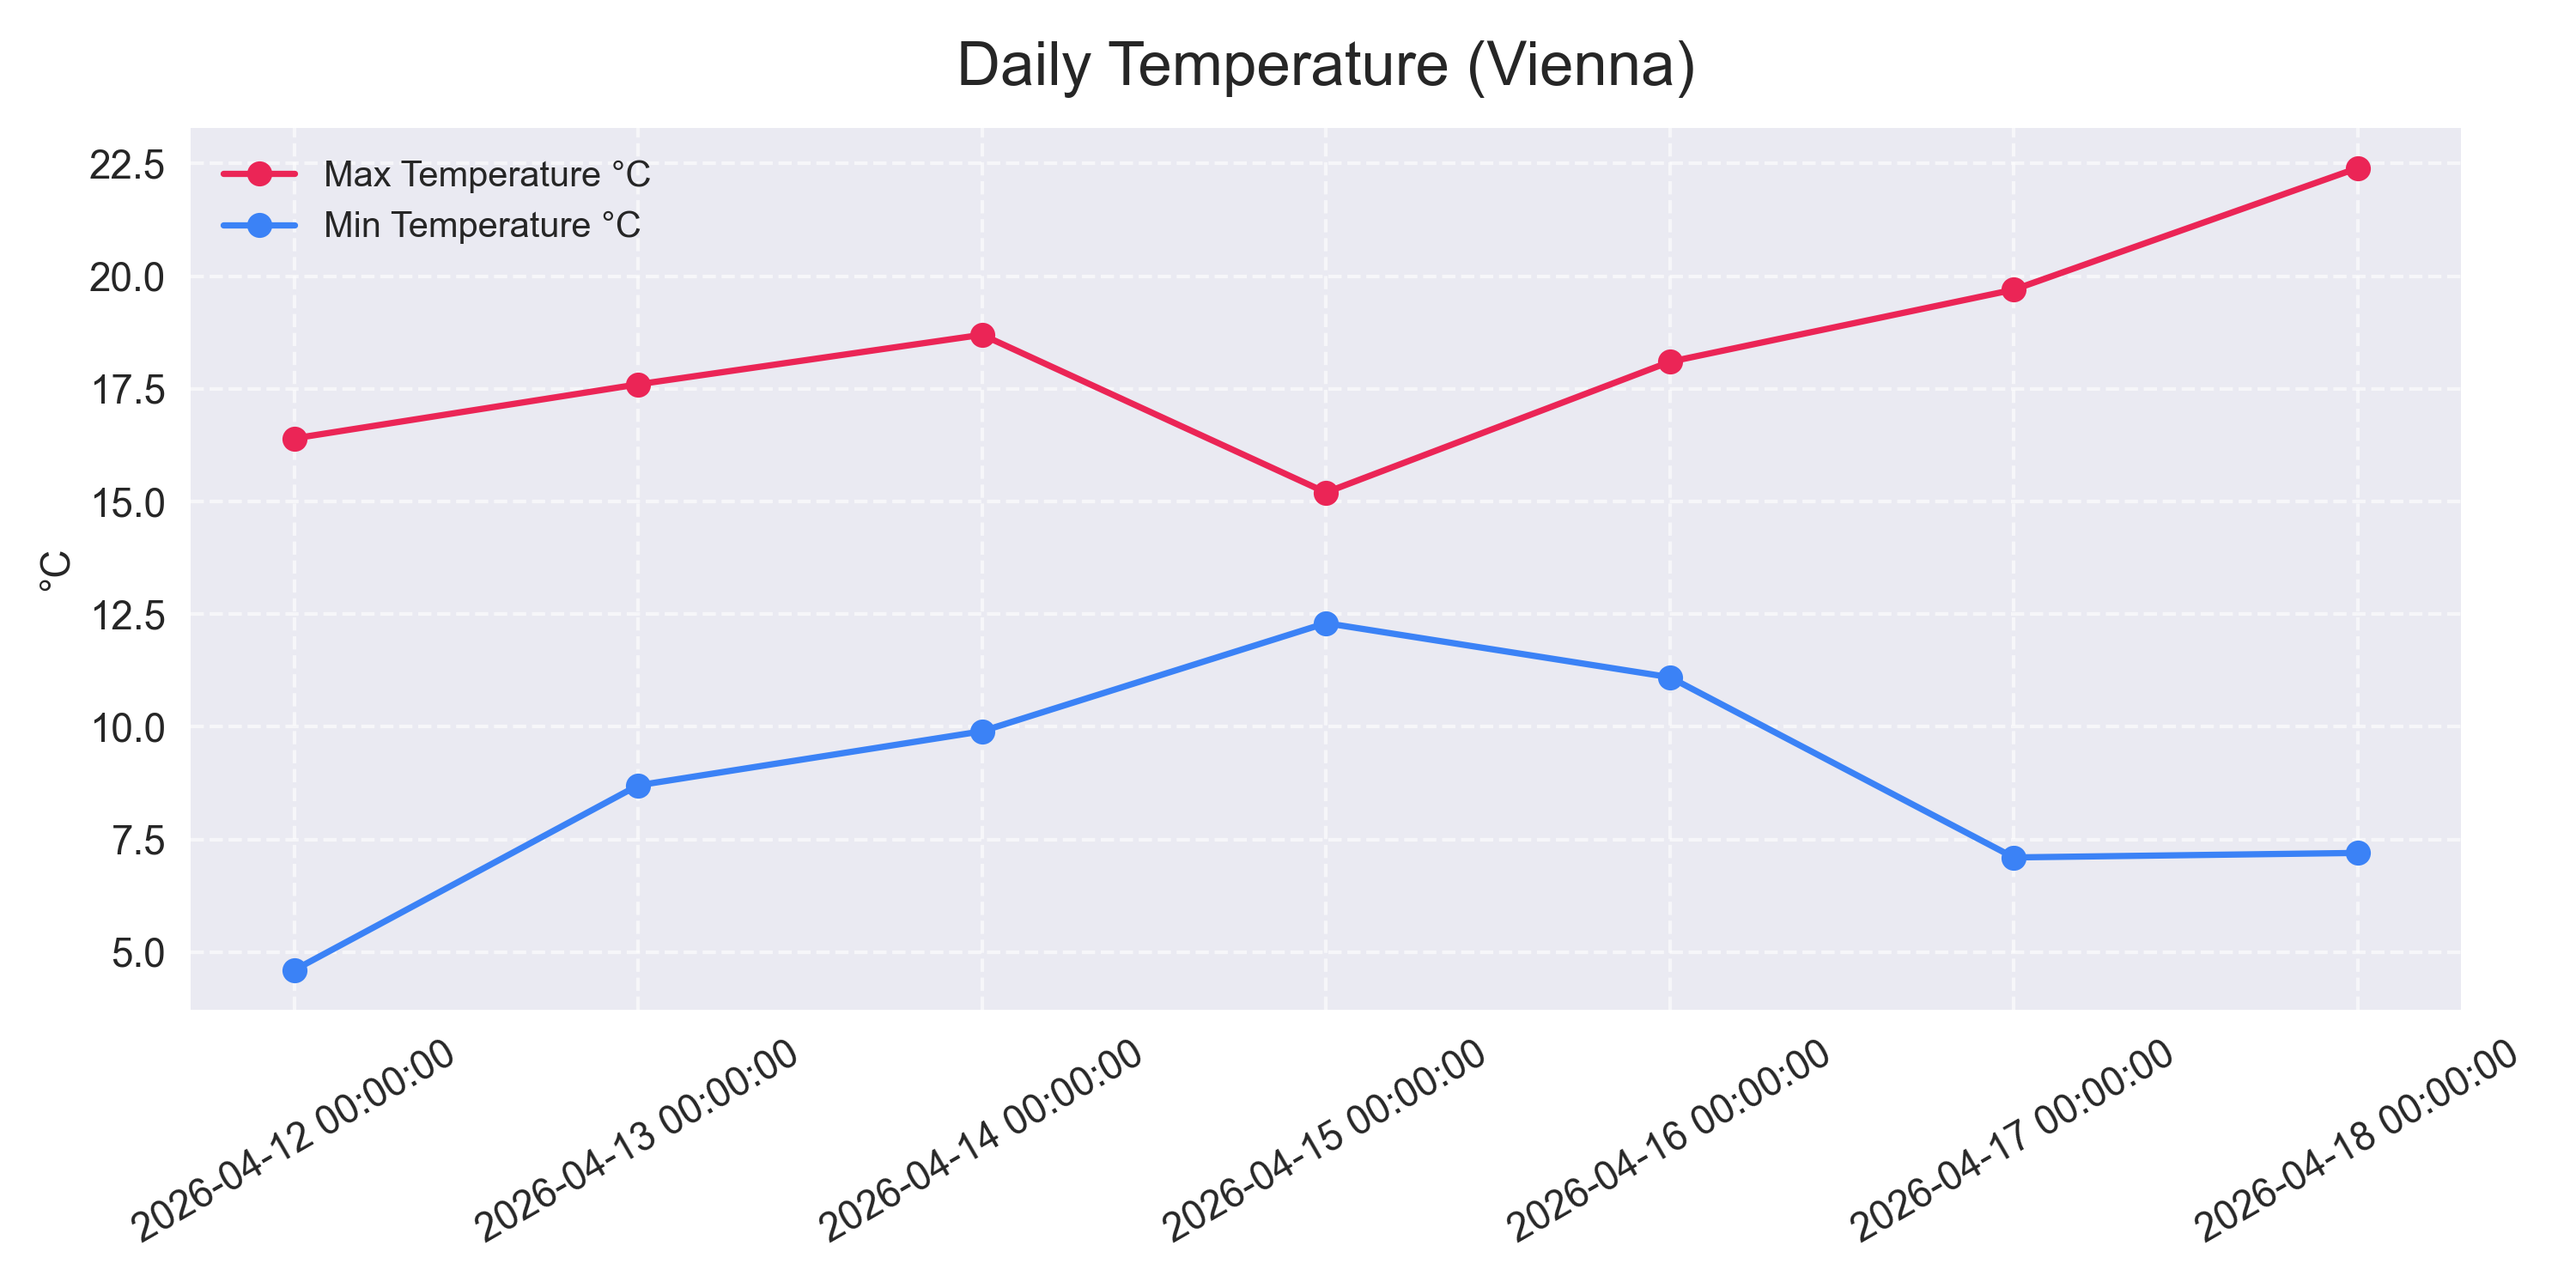
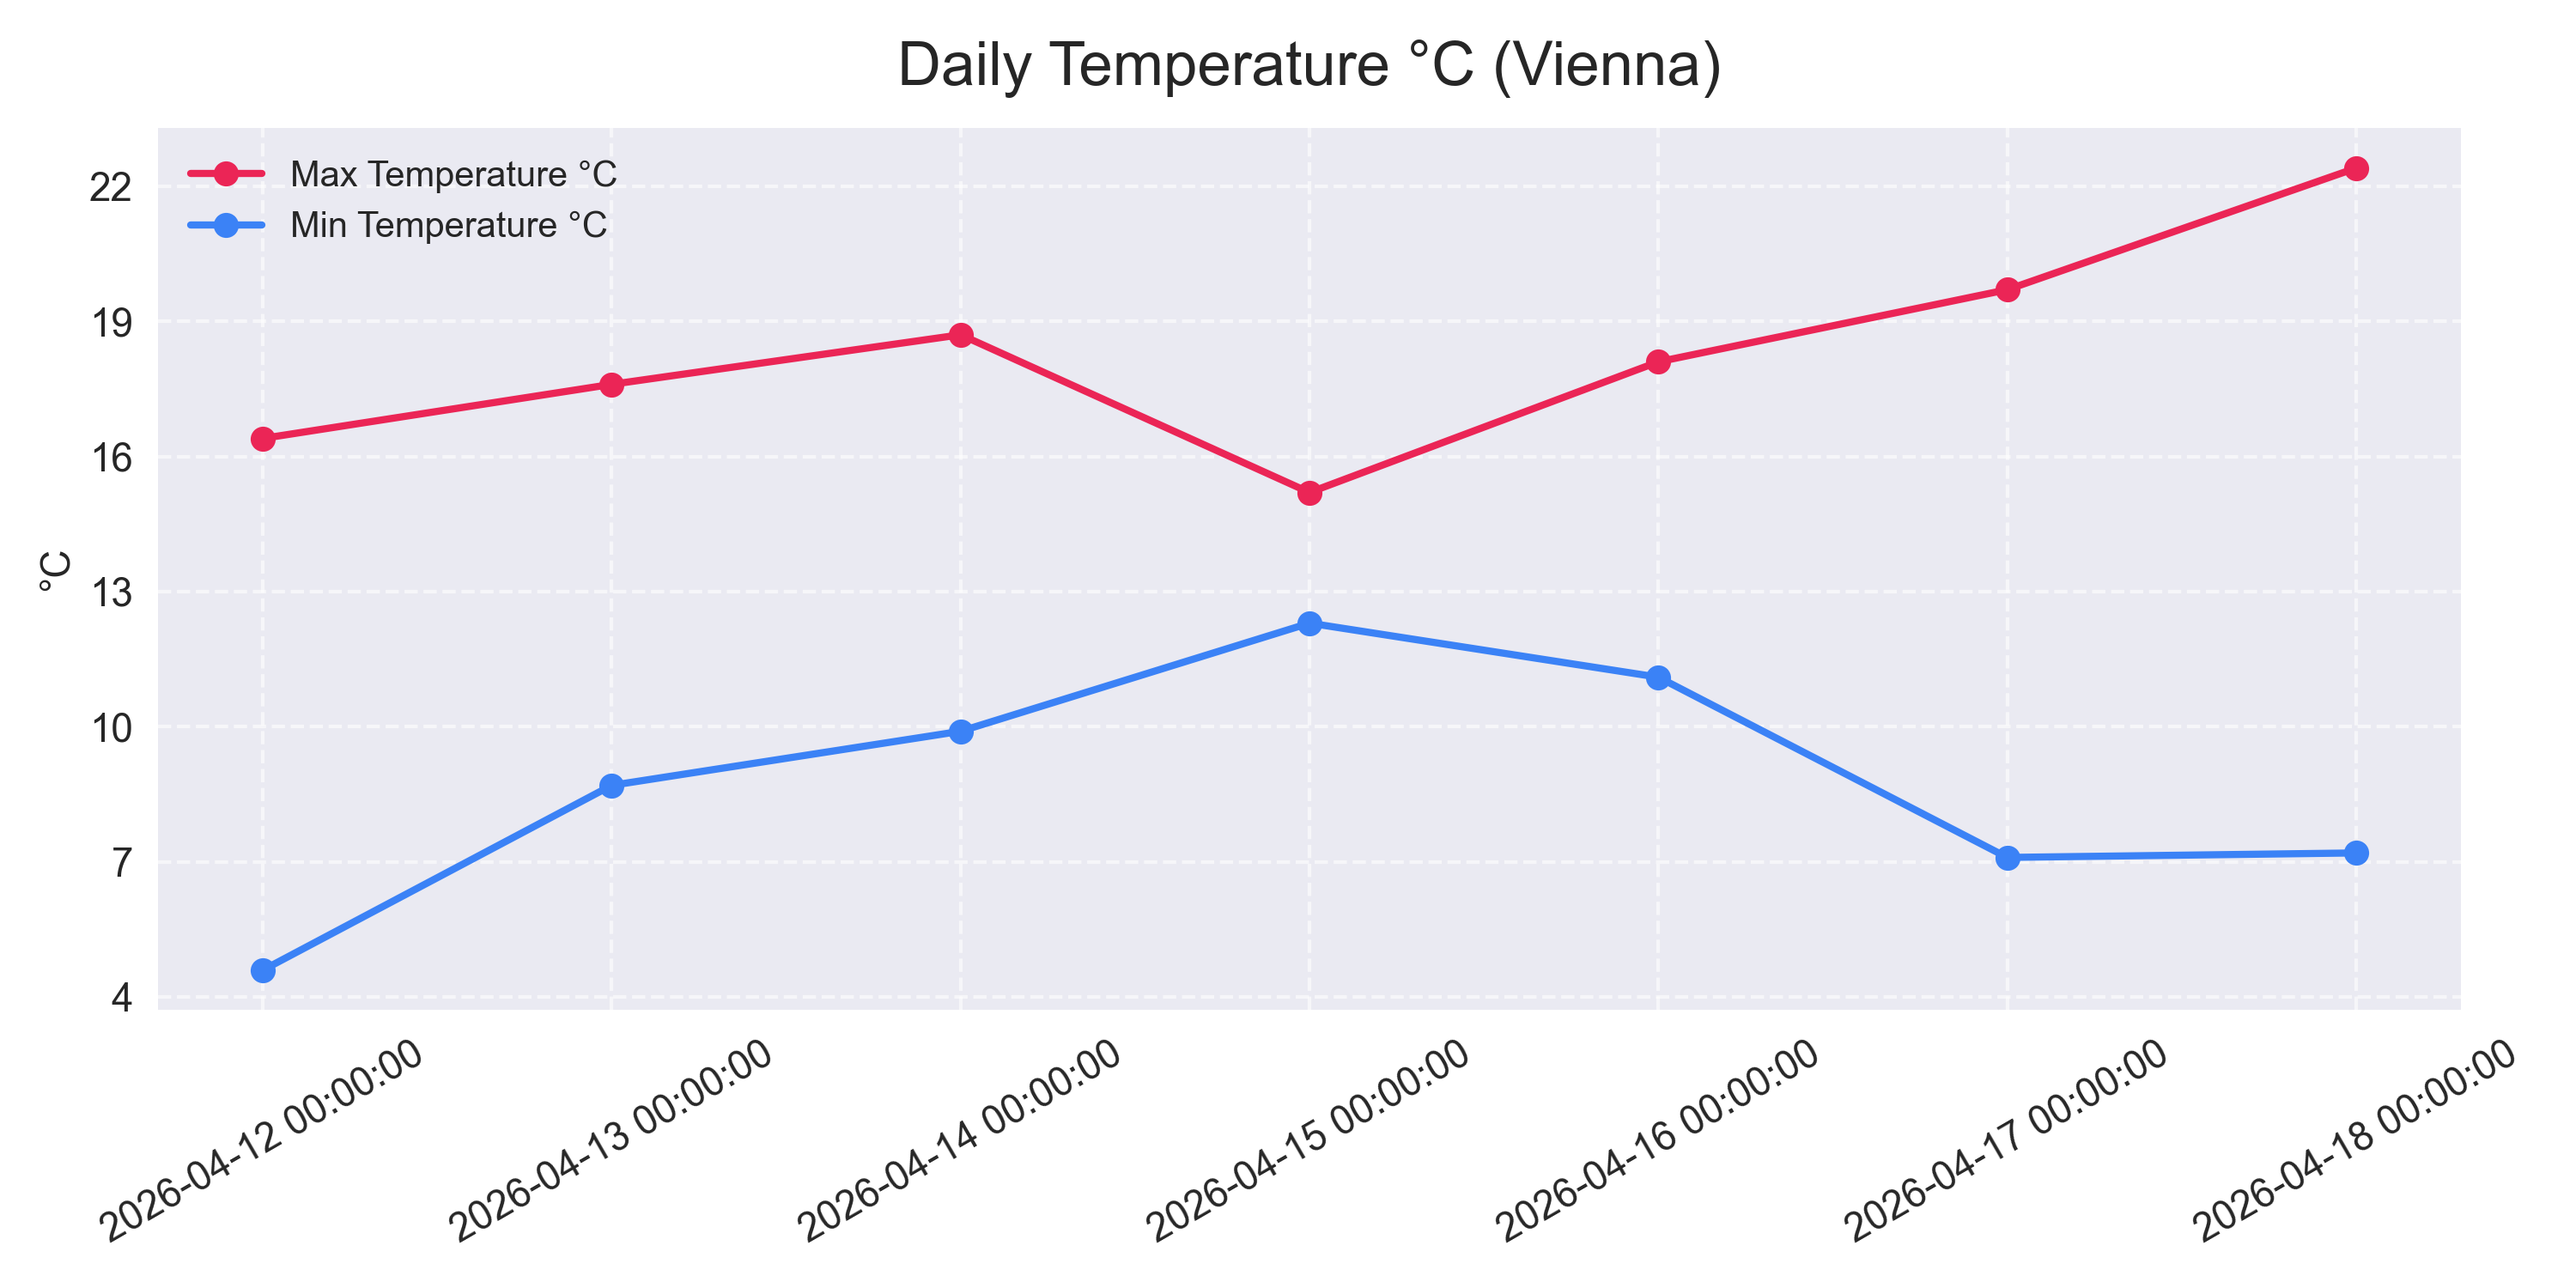
Enhance temperature plots with line width and labels

diff --git a/src/visualization.py b/src/visualization.py
@@ -12,11 +12,15 @@ def plot_weather(df):
     ax.set_xticks(x)
     ax.set_xticklabels(df["date"], fontsize=11, rotation=30)
 
-    ax.plot(x, df["temp_max"], label="Max Temperature °C", marker='o', color="#eb2556")
-    ax.plot(x, df["temp_min"], label="Min Temperature °C", marker='o', color="#3b82f6")
+    ax.plot(x, df["temp_max"], label="Max Temperature °C", marker='o', linewidth=2, color="#eb2556")
+    ax.plot(x, df["temp_min"], label="Min Temperature °C", marker='o', linewidth=2, color="#3b82f6")
 
-    ax.set_title("Daily Temperature (Vienna)", fontsize=17, pad=12)
+    ax.set_title("Daily Temperature °C (Vienna)", fontsize=17, pad=12)
     ax.set_ylabel("°C")
+
+    y_min = int(df["temp_min"].min())
+    y_max = int(df["temp_max"].max())
+    ax.set_yticks(np.arange(y_min, y_max + 1, 3))
 
     ax.tick_params(axis='y', labelsize=11)
 
@@ -55,12 +59,27 @@ def plot_temperature_with_ma(df):
 
     y = np.arange(-10, 41, 5)
 
-    ax.plot(df["date"], df["temp_avg"], label="Daily Average Temperature °C", marker='o')
-    ax.plot(df["date"], df["temp_ma"], label="Moving Average", linestyle='--')
+    ax.plot(df["date"], df["temp_avg"], label="Daily Average Temperature °C", linewidth=2, marker='o')
+    ax.plot(df["date"], df["temp_ma"], label="Moving Average (2d)", linewidth=1, linestyle='--')
+
+    anomalies = df[df["anomaly"]]
+
+    ax.scatter(
+        anomalies["date"],
+        anomalies["temp_avg"],
+        color="#7d0926",
+        label="Anomalies",
+        zorder=3
+    )
 
     ax.set_title("Temperature °C Trends (Vienna)", fontsize=17, pad=12)
     ax.set_ylabel("°C")
 
+    y_min = int(df["temp_avg"].min())
+    y_max = int(df["temp_avg"].max())
+
+    ax.set_yticks(np.arange(y_min, y_max + 1))
+    
     ax.tick_params(axis='y', labelsize=11)
 
     ax.legend()

diff --git a/main.py b/main.py
@@ -1,5 +1,5 @@
 from src.data_loader import fetch_weather_data, parse_weather_data
-from src.analysis import calculate_average_temp, find_hottest_day, find_coldest_day, add_moving_average
+from src.analysis import calculate_average_temp, find_hottest_day, find_coldest_day, add_moving_average, detect_anomalies
 from src.visualization import plot_weather, plot_precipitation, plot_temperature_with_ma
 import matplotlib.pyplot as plt
 
@@ -8,15 +8,16 @@ def main():
     data = fetch_weather_data()
     df = parse_weather_data(data)
     df = add_moving_average(df)
+    df = detect_anomalies(df)
 
     avg_temp = round(calculate_average_temp(df), 1)
 
     hottest_day, hottest_temp = find_hottest_day(df)
     coldest_day, coldest_temp = find_coldest_day(df)
 
-    print(f"Average temperature: {avg_temp}°C")
-    print(f"Hottest Day: {hottest_day} ({hottest_temp}°C)")
-    print(f"Coldest Day: {coldest_day} ({coldest_temp}°C)")
+    print(f"Average Temperature: {avg_temp}°C")
+    print(f"Hottest Temperature: {hottest_day} ({hottest_temp}°C)")
+    print(f"Coldest Temperature: {coldest_day} ({coldest_temp}°C)")
 
     plot_weather(df)
     plot_precipitation(df)

diff --git a/src/analysis.py b/src/analysis.py
@@ -10,6 +10,17 @@ def add_moving_average(df, window=2):
 
     return df
 
+def detect_anomalies(df, threshold=2):
+    df["temp_avg"] = (df["temp_max"] + df["temp_min"]) / 2
+    mean_temp = df["temp_avg"].mean()
+
+    df["difference"] = df["temp_avg"] - mean_temp
+
+    # Flag strong deviations
+    df["anomaly"] = df["difference"].abs() > threshold
+
+    return df
+
 def find_hottest_day(df):
     idx = np.argmax(df["temp_max"])
     return df["date"][idx], df["temp_max"][idx]
